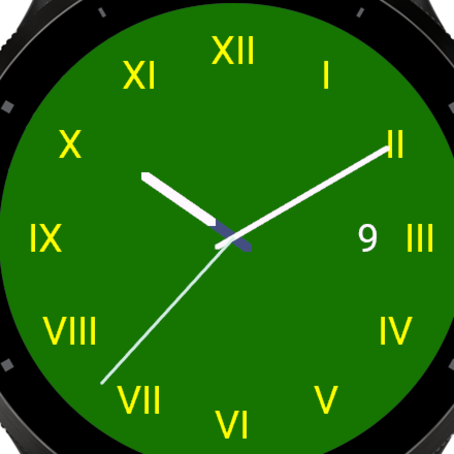
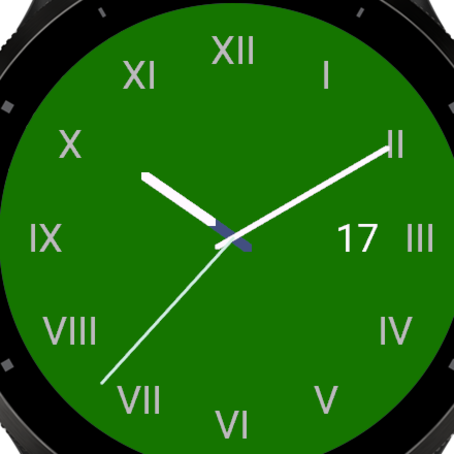
Green-and-silver theme: silver numerals (#54) (#55)
Change the Green theme numerals from yellow (0xFFFF00) to silver-grey
(0xC0C0C0) for a green-and-silver look; hands stay white and the background
stays 0x008000 (its fr55 palette floor — going darker would quantize to black
on fr55). Update gen_screens.py and regenerate the green sim screenshot.

diff --git a/store/gen_screens.py b/store/gen_screens.py
@@ -18,7 +18,7 @@ def hx(v): return "#%06X" % v
 # theme: (name, background, numerals, date, hands, battery_accent)  [AMOLED true hex]
 THEMES = [
     ("1-blue",          0x0000FF, 0x00FFFF, 0xFFFFFF, 0xFFFFFF, 0xC77B45),
-    ("2-green",         0x008000, 0xFFFF00, 0xFFFFFF, 0xFFFFFF, 0x4E5A88),
+    ("2-green",         0x008000, 0xC0C0C0, 0xFFFFFF, 0xFFFFFF, 0x4E5A88),
     ("3-purple",        0x800080, 0x00FFFF, 0xFFFFFF, 0xFFFFFF, 0x3E86AE),
     ("4-red",           0xFF0000, 0xFFFF00, 0xFFFFFF, 0xFFFFFF, 0x3E955A),
     ("5-yellow",        0xC8A415, 0x000000, 0x000000, 0x000000, 0xC0543C),
